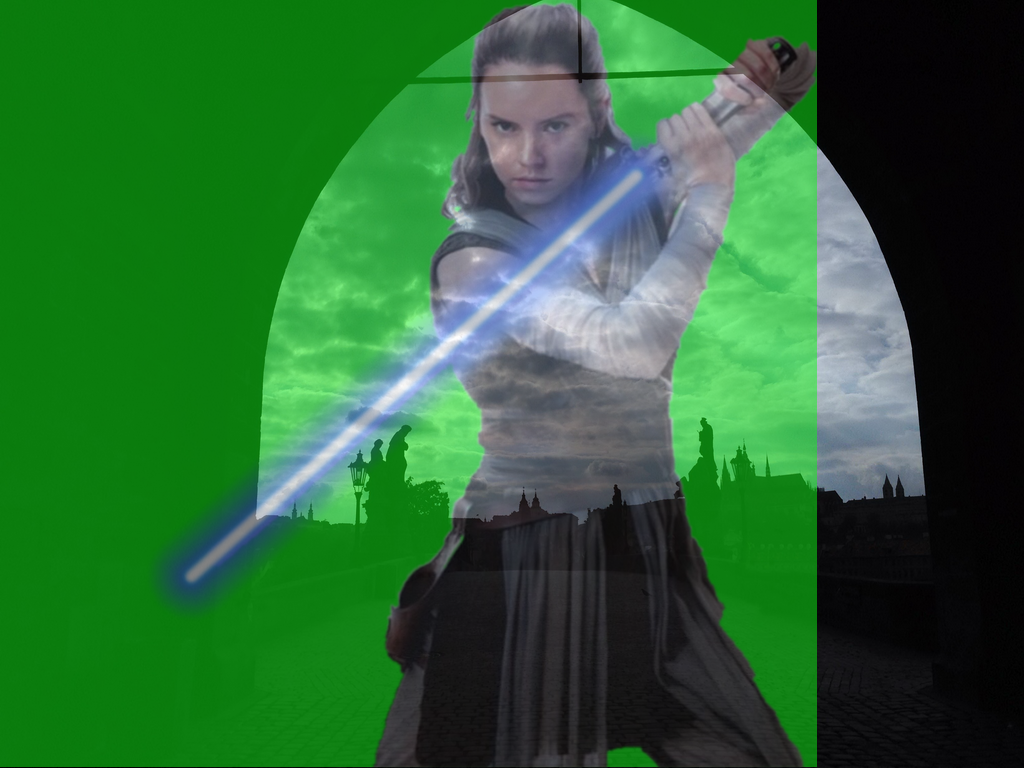
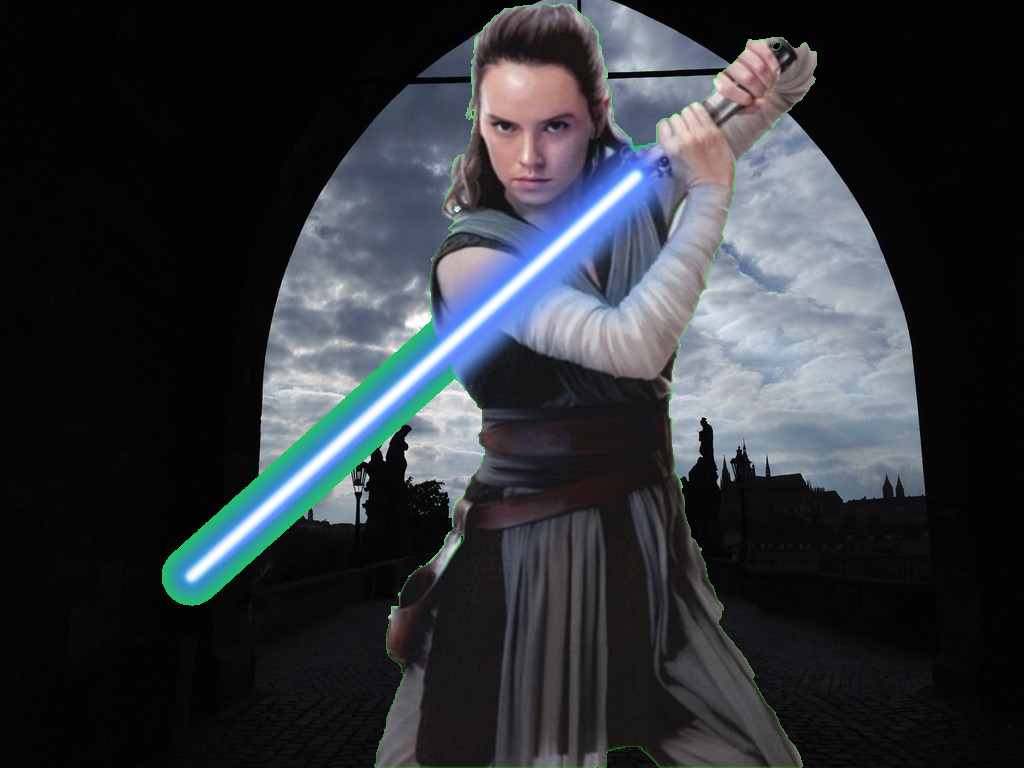
I did it!! Yay!! Thanks to stack overflow and some theory-ing I figured it out! I had to approach it thinking about swapping the pixels instead of deleting them! MASTER is the one that works!!

diff --git a/master.py b/master.py
@@ -9,8 +9,6 @@
 import pygame
 from pygame.surface import Surface
 
-from main import screen
-
 # Initialize the game
 pygame.init()
 
@@ -35,14 +33,17 @@ img2.set_alpha(255)
 img.set_alpha(255)
 
 #This for loop recolors each pixel in the images. This is the original from the assignment!
-for y in range(0, height-1):
-    for x in range(0, width-207):
-        c1 = img.get_at((x, y))
-        c2 = img2.get_at((x, y))
-        newcolor = ((c1.r + c2.r) // 2, (c1.g + c2.g) // 2, (c1.b + c2.b) // 2)
-        img.set_at((x, y), newcolor)
+for y in range(0, height):
+    for x in range(0, width):
+        c2 = img2.get_at((x, y)) #Rey's image
+        #Check to see if the pixel is green and change it!
+        if c2.g > 150 and c2.r < 100 and c2.b < 100:
+            c1 = img.get_at((x, y))
+            img.set_at((x, y), c1)
+        else:
+            img.set_at((x, y), c2)
 
-screen.blit(img2, (0, 0) )
+screen.blit(img, (0, 0) )
 
 pygame.display.flip()
 
